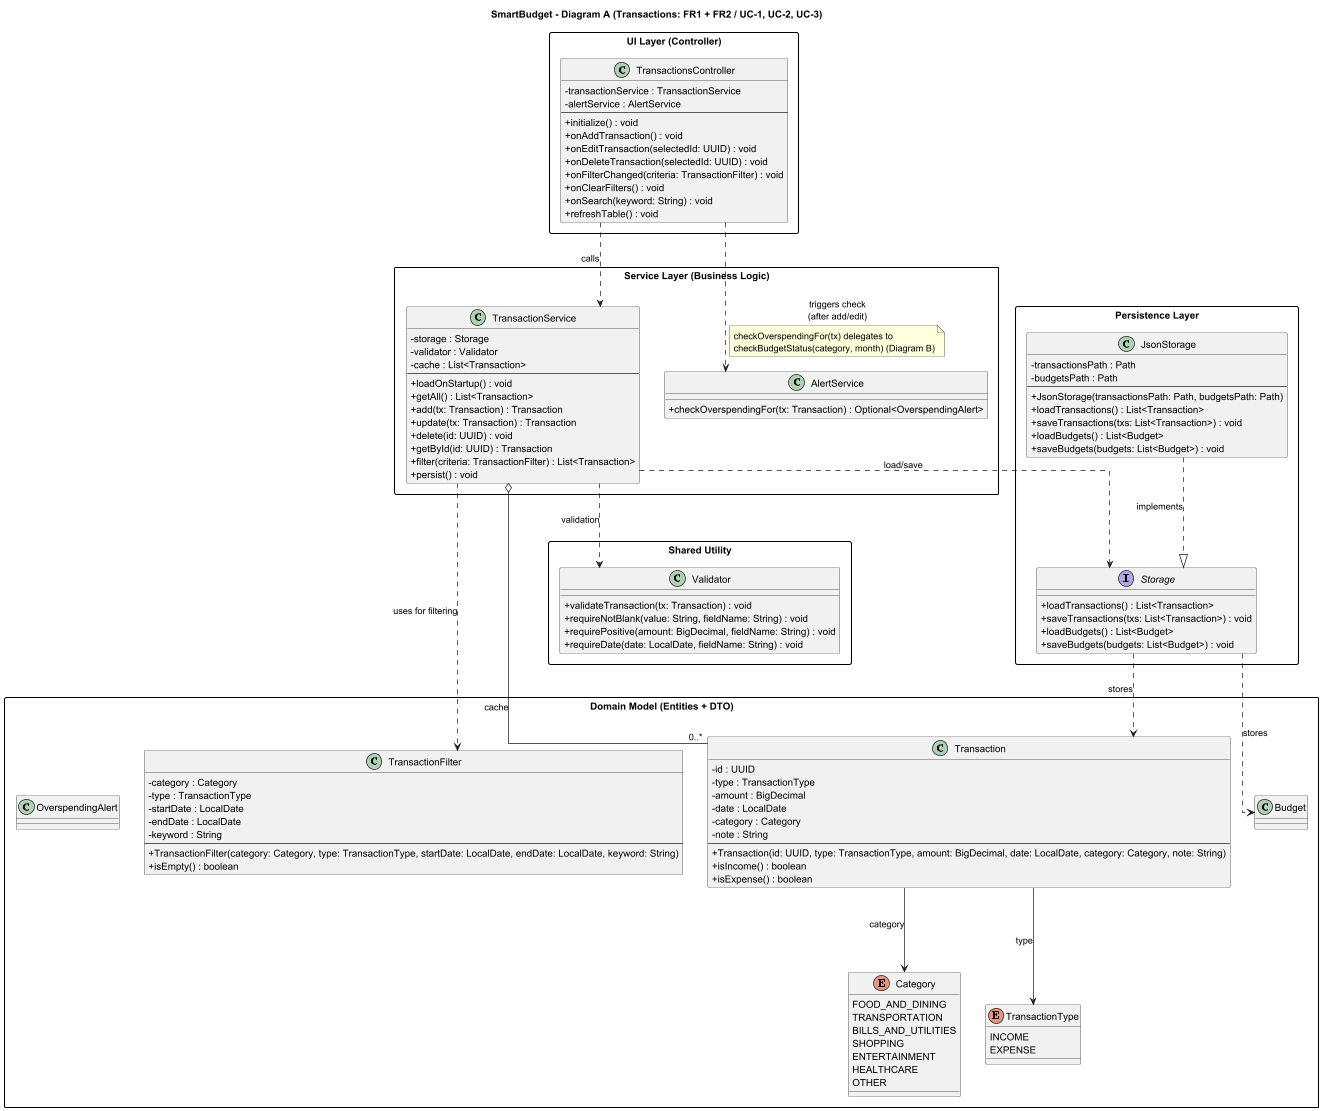
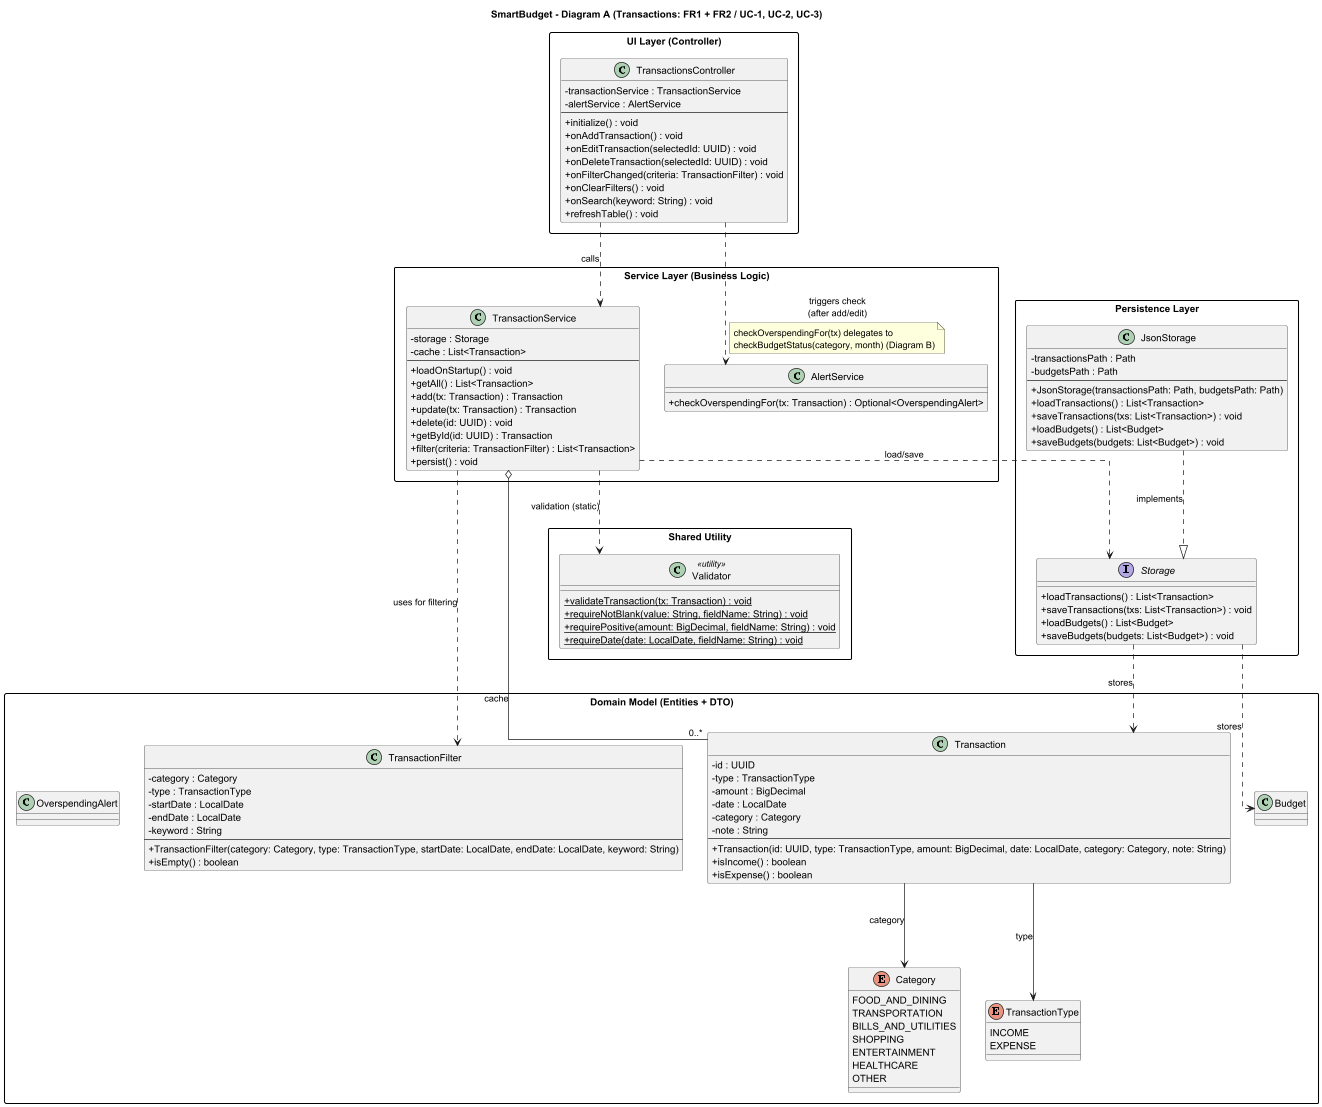
add transactionservice and working on its relevant methods, update class diagrams A and B

diff --git a/app/src/main/java/ca/yorku/smartbudget/service/TransactionServiceImpl.java b/app/src/main/java/ca/yorku/smartbudget/service/TransactionServiceImpl.java
@@ -1,0 +1,74 @@
+package ca.yorku.smartbudget.service;
+
+import ca.yorku.smartbudget.domain.Transaction;
+import ca.yorku.smartbudget.domain.TransactionFilter;
+import ca.yorku.smartbudget.persistence.Storage;
+import ca.yorku.smartbudget.util.Validator;
+
+import java.util.ArrayList;
+import java.util.List;
+import java.util.Objects;
+import java.util.UUID;
+
+public class TransactionServiceImpl implements TransactionService {
+    private Storage storage;
+    private List<Transaction> cache;
+
+    public TransactionServiceImpl(Storage storage) {
+        this.storage = Objects.requireNonNull(storage, "storage must not be null");
+        this.cache = new ArrayList<>();
+    }
+
+    @Override
+    public void loadOnStartup() {
+        List<Transaction> loaded = storage.loadTransactions();
+        cache.clear();
+        if (loaded != null) {
+            cache.addAll(loaded);
+        }
+    }
+
+    @Override
+    public List<Transaction> getAll() {
+        return new ArrayList<>(cache); // defensive copy
+    }
+
+    @Override
+    public Transaction add(Transaction tx) {
+        Objects.requireNonNull(tx, "tx must not be null");
+
+        // Validate the transaction (throws if invalid)
+        Validator.validateTransaction(tx);
+
+        // Add to the cache then persist
+        cache.add(tx);
+        persist();
+
+        return tx;
+    }
+
+    @Override
+    public Transaction update(Transaction tx) {
+        throw new UnsupportedOperationException("TODO Step 2.3");
+    }
+
+    @Override
+    public void delete(UUID id) {
+        throw new UnsupportedOperationException("TODO Step 2.3");
+    }
+
+    @Override
+    public Transaction getById(UUID id) {
+        throw new UnsupportedOperationException("TODO Step 2.3");
+    }
+
+    @Override
+    public List<Transaction> filter(TransactionFilter criteria) {
+        throw new UnsupportedOperationException("TODO Step 2.3");
+    }
+
+    @Override
+    public void persist() {
+        throw new UnsupportedOperationException("TODO Step 2.3");
+    }
+}

diff --git a/app/src/main/java/ca/yorku/smartbudget/service/TransactionService.java b/app/src/main/java/ca/yorku/smartbudget/service/TransactionService.java
@@ -1,0 +1,33 @@
+package ca.yorku.smartbudget.service;
+
+import ca.yorku.smartbudget.domain.Transaction;
+import ca.yorku.smartbudget.domain.TransactionFilter;
+
+import java.util.List;
+import java.util.UUID;
+
+public interface TransactionService {
+    /** Loads transactions from persistence into the in-memory cache. */
+    public void loadOnStartup();
+
+    /** Returns all transactions as a defensive copy. */
+    List<Transaction> getAll();
+
+    /** Adds a new transaction (validated) then persists. */
+    Transaction add(Transaction tx);
+
+    /** Updates an existing transaction by id (validated) then persists. */
+    Transaction update(Transaction tx);
+
+    /** Deletes an existing transaction by id then persists. */
+    void delete(UUID id);
+
+    /** Returns a transaction by id, or throws if not found. */
+    Transaction getById(UUID id);
+
+    /** Returns filtered results as a defensive copy. */
+    List<Transaction> filter(TransactionFilter criteria);
+
+    /** Persists the current cache to Storage. */
+    void persist();
+}
